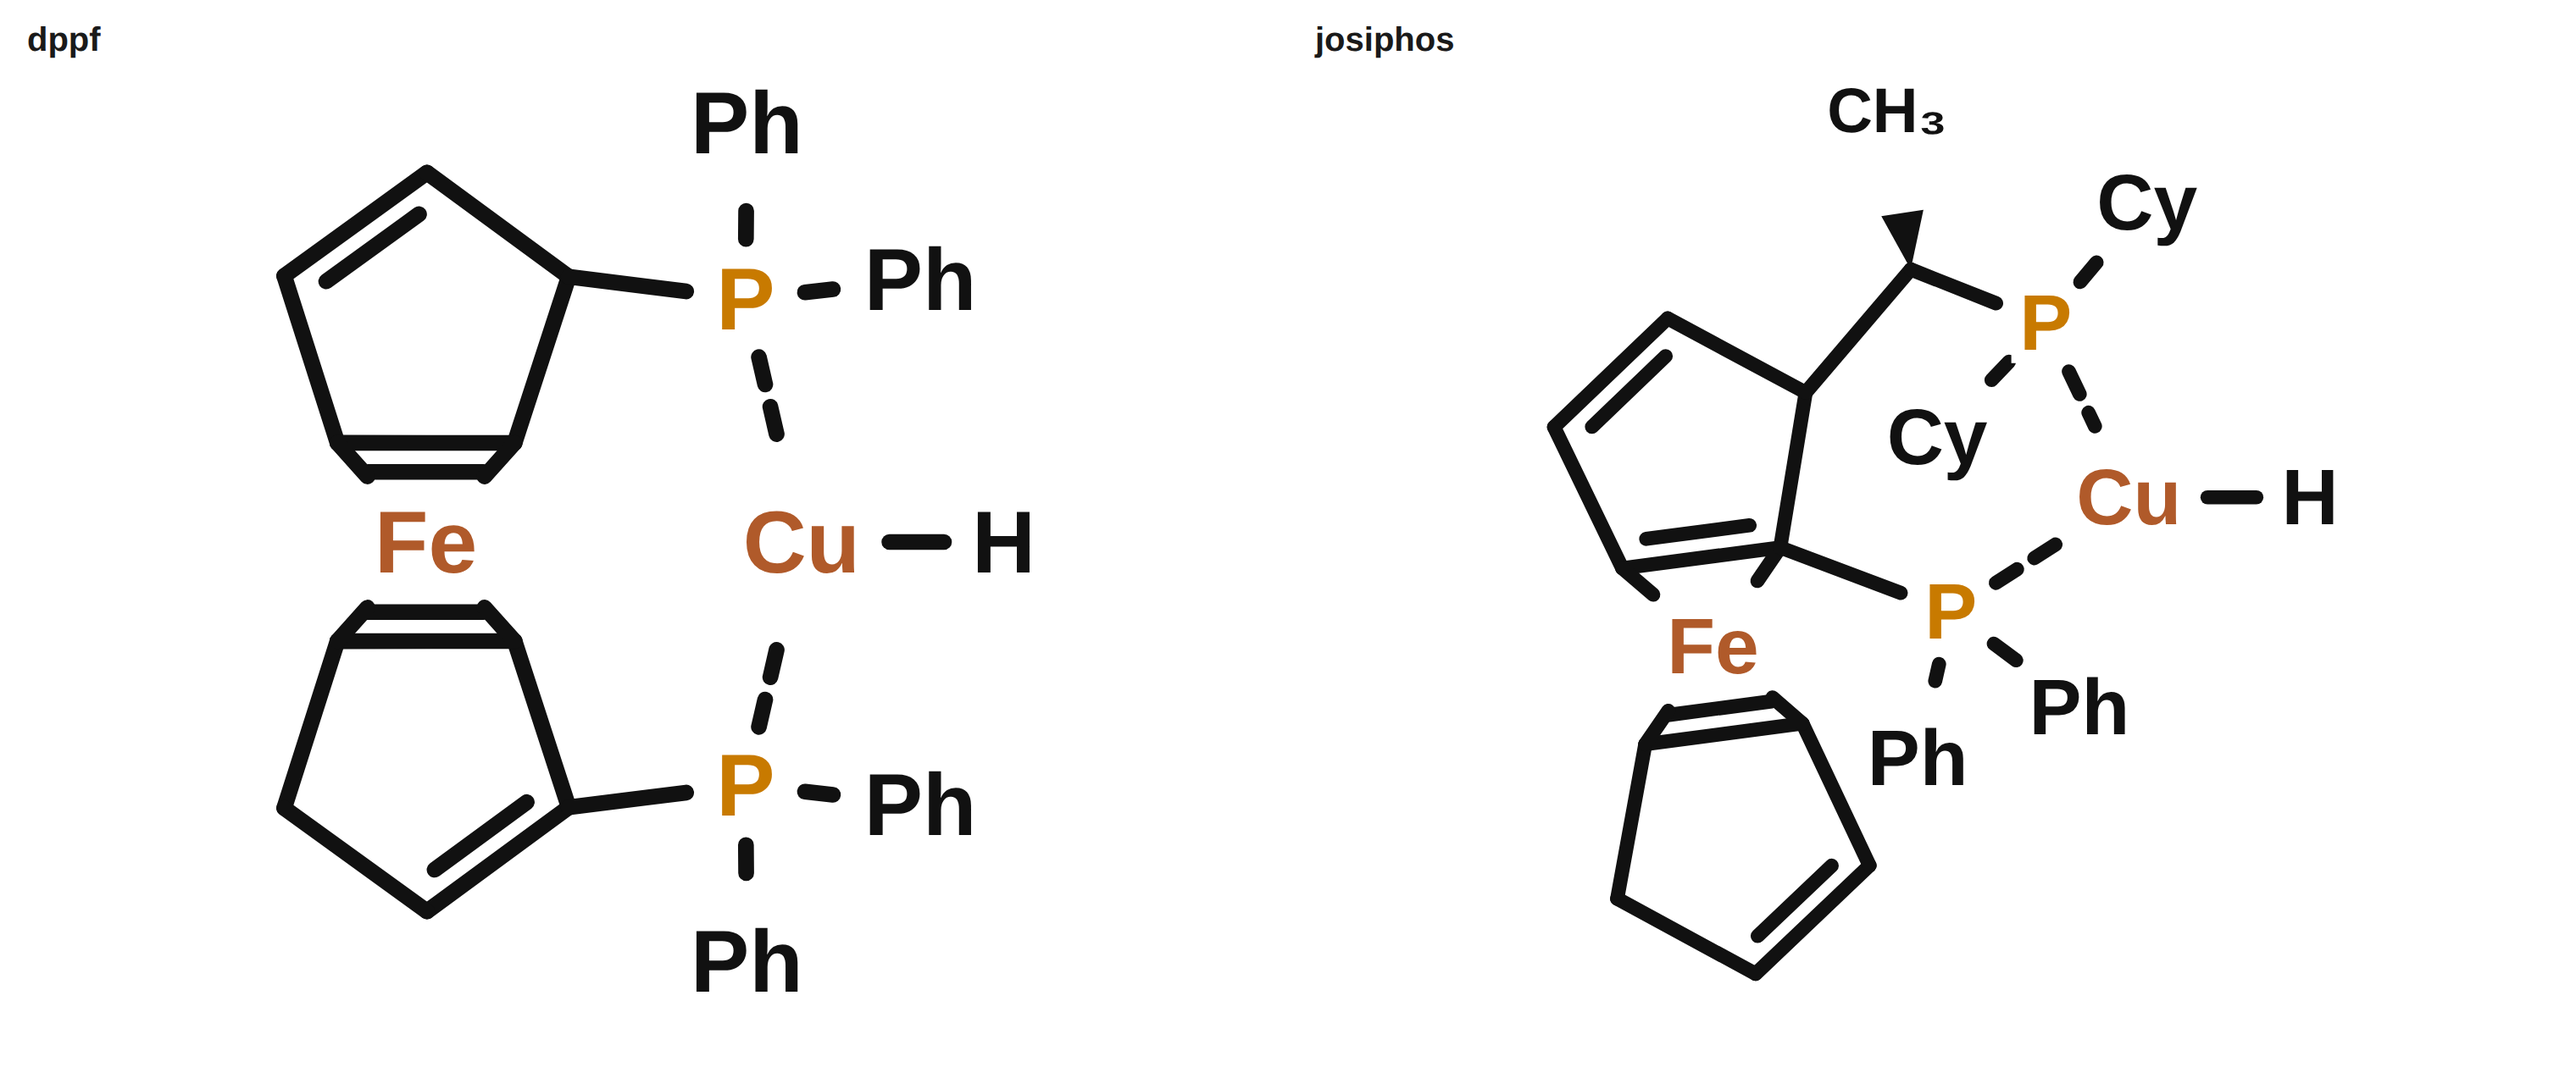
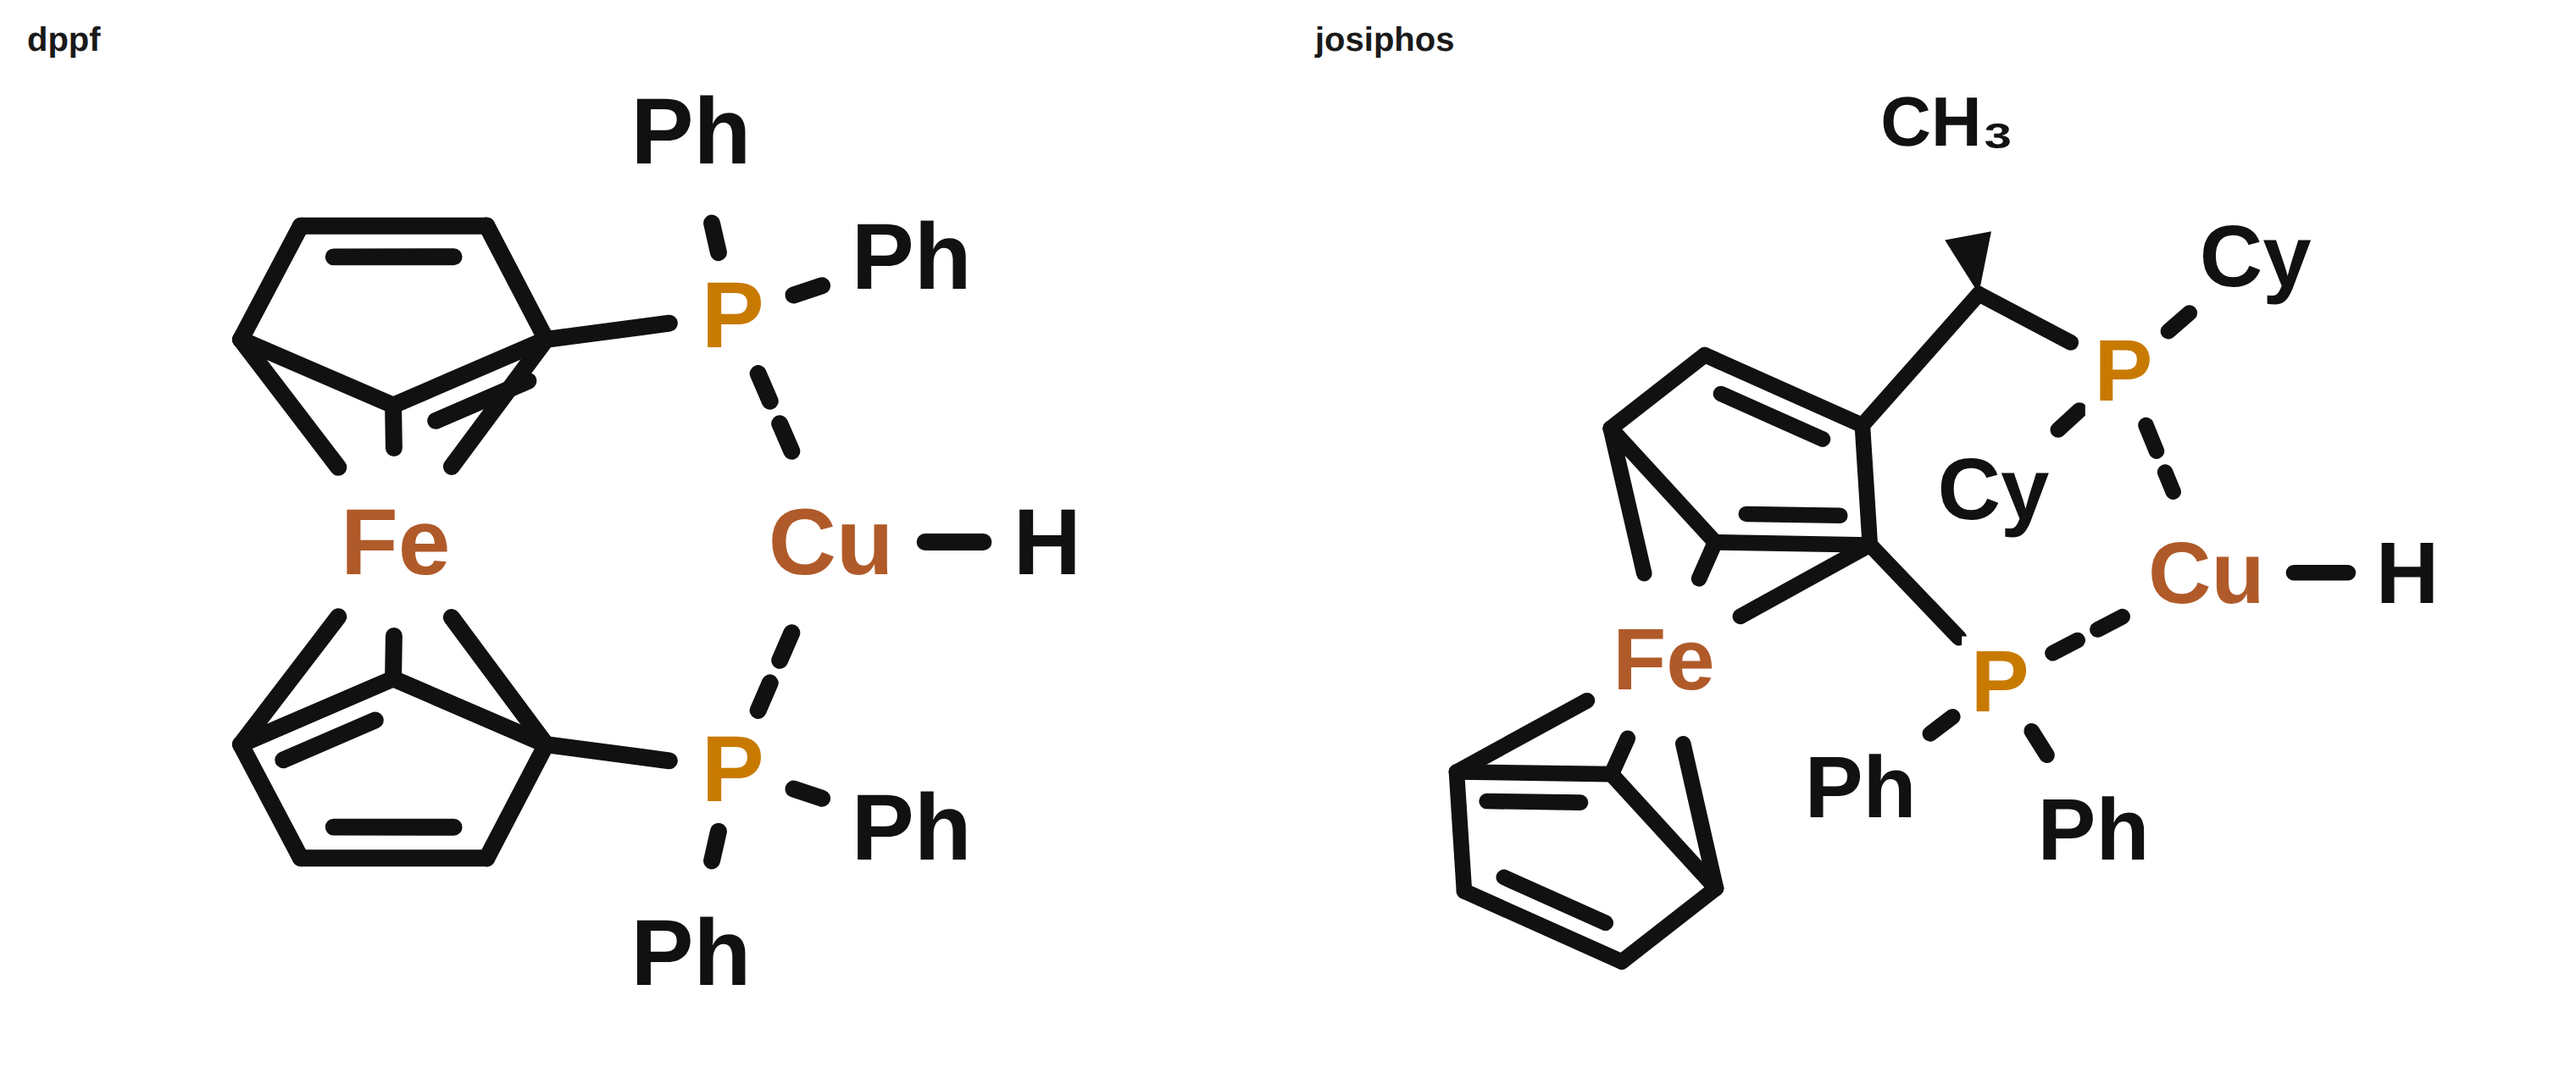
metaldepict: reference-style ferrocene -- flattened Cp discs in perspective
Cp rings now drawn as flattened pentagons (apex rotated to point TOWARD Fe, flat
edge away) compressed vertically (squash) for the tilted-disc perspective of a
real ferrocene drawing, Fe labelled on the central stacking axis with eta5 spokes
to the near carbons of each ring. _cp_ring gains apex_deg (in-place rotation) +
squash. Matches the published Josiphos/DPPF sandwich.

Claude-Session: https://claude.ai/code/session_01VEr4Hixwf6YDK6DNqMg3Gi

diff --git a/metaldepict/methods/seed_from_smiles.py b/metaldepict/methods/seed_from_smiles.py
@@ -210,26 +210,33 @@ _PEN_R = L / (2 * math.sin(math.pi / 5))
 _APOTHEM = _PEN_R * math.cos(math.pi / 5)
 
 
-def _cp_ring(sc, center, apex_deg, kek=(2, 1, 2, 1, 1)):
-    """Cyclopentadienyl pentagon with its apex vertex at `apex_deg` (so the
-    OPPOSITE edge -- the one facing the Fe between the rings -- is flat)."""
-    ids = [sc.atom(polar(center, apex_deg + k * 72.0, _PEN_R)) for k in range(5)]
+def _cp_ring(sc, center, apex_deg, squash=1.0, kek=(2, 1, 2, 1, 1)):
+    """Cyclopentadienyl pentagon, apex vertex at `apex_deg`, optionally squashed
+    vertically by `squash` (<1) to give the tilted-disc perspective of a drawn
+    ferrocene.  `apex_deg` is the in-place rotation knob for the ring."""
+    cx, cy = center
+    ids = []
+    for k in range(5):
+        a = math.radians(apex_deg + k * 72.0)
+        ids.append(sc.atom((cx + _PEN_R * math.cos(a),
+                            cy + _PEN_R * math.sin(a) * squash)))
     for k in range(5):
         sc.bond(ids[k], ids[(k + 1) % 5], order=kek[k], inside=center)
     return ids
 
 
-def _ferrocene_stack(sc, fe_xy=(1.6, 0.0), gap=1.2):
-    """Draw a vertical SANDWICH: upper Cp (apex up) above Fe, lower Cp (apex
-    down) below Fe, with Fe labelled in the centre and eta5 lines to the two
-    facing carbons of each ring.  Returns (fe, upper_ids, lower_ids)."""
+def _ferrocene_stack(sc, fe_xy=(1.6, 0.0), gap=1.15, squash=0.62):
+    """Reference-style vertical SANDWICH: two Cp rings drawn as flattened
+    pentagons (apex pointing TOWARD Fe, flat edge away) in perspective, Fe
+    labelled in the centre on a vertical stacking axis, with eta5 spokes from Fe
+    to the three near carbons of each ring.  Returns (fe, upper_ids, lower_ids)."""
     fx, fy = fe_xy
+    up = _cp_ring(sc, (fx, fy + gap), apex_deg=270.0, squash=squash)  # apex down
+    dn = _cp_ring(sc, (fx, fy - gap), apex_deg=90.0, squash=squash)   # apex up
     fe = sc.atom((fx, fy), label="Fe", color=FE_COL)
-    up = _cp_ring(sc, (fx, fy + gap), apex_deg=90.0)     # apex up; flat edge down
-    dn = _cp_ring(sc, (fx, fy - gap), apex_deg=270.0)    # apex down; flat edge up
-    for ids in (up, dn):                                  # eta5: lines to facing edge
+    for ids in (up, dn):                              # eta5 spokes to near edge
         near = sorted(ids, key=lambda i: math.hypot(
-            sc.atoms[i].pos[0] - fx, sc.atoms[i].pos[1] - fy))[:2]
+            sc.atoms[i].pos[0] - fx, sc.atoms[i].pos[1] - fy))[:3]
         for i in near:
             sc.bond(fe, i, order=1)
     return fe, up, dn
